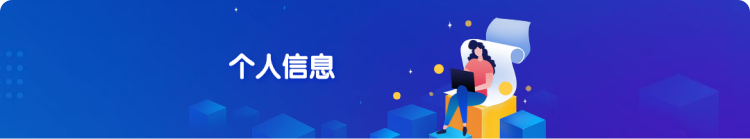
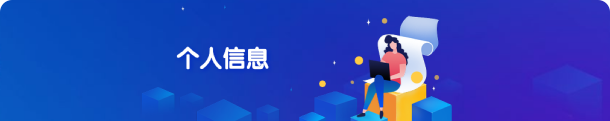
个人信息修改

diff --git a/web-ued/components/dialogs/PersonalInfo.vue b/web-ued/components/dialogs/PersonalInfo.vue
@@ -1,5 +1,5 @@
 <template>
-    <el-dialog :visible.sync="isShow" width="750px" :custom-class="classStyle" :before-close="handleClose"
+    <el-dialog :visible.sync="isShow" width="610px" :custom-class="classStyle" :before-close="handleClose"
         destroy-on-close append-to-body>
         <img src="@/assets/img/bg/bg-dialog-info.png" slot="title" class="dialog-img">
         <div class="content_block">
@@ -12,7 +12,7 @@
             <p>头像</p>
             <div class="cus-flex cus-align-center">
                 <div v-for="(item,index) in config.avatorList" @click="chooseAvator($event)" :key="index">
-                    <el-avatar :key="index" :size="60" :src="item" class="align-top" shape="square"></el-avatar>
+                    <el-avatar :key="index" :size="50" :src="item" class="align-top" shape="square"></el-avatar>
                 </div>
             </div>
         </div>
@@ -24,7 +24,7 @@
 <style lang="scss" scoped>
     .info_dialog {
         .content_block {
-            padding: 15px 38px 10px 16px;
+            //padding: 15px 38px 10px 16px;
         }
 
         .nickname {

diff --git a/web-ued/assets/style/base.scss b/web-ued/assets/style/base.scss
@@ -131,9 +131,12 @@ body,
 
 // 个人信息弹窗
 .info_dialog{
+  .el-dialog__body{
+    padding: 26px 46px 28px 46px;
+  }
   .el-dialog__header{
     padding: 0;
-    height: 139px;
+    height: 121px;
   }
   .el-button{
     padding: 11px 28px;
@@ -144,9 +147,9 @@ body,
   }
   .el-avatar{
     background: white;
-    margin-right: 20px;
+    margin-right: 16px;
   }
   .el-dialog__footer{
-    padding: 0 58px 40px 0; 
+    padding: 0 46px 33px 0; 
   }
 }

diff --git a/web-ued/server/models/db.js b/web-ued/server/models/db.js
@@ -2,8 +2,8 @@ var mongoose = require('mongoose')
 mongoose.set('useNewUrlParser', true)
 mongoose.set('useFindAndModify', false)
 mongoose.set('useCreateIndex', true)
-//var DB_URL = 'mongodb://blog:blog@localhost:27017/blog' //线上
-var DB_URL = 'mongodb://localhost:27017/blog' //本地
+var DB_URL = 'mongodb://blog:blog@localhost:27017/blog' //线上
+//var DB_URL = 'mongodb://localhost:27017/blog' //本地
 
 var DB_URL = process.env.DB_URL
 
